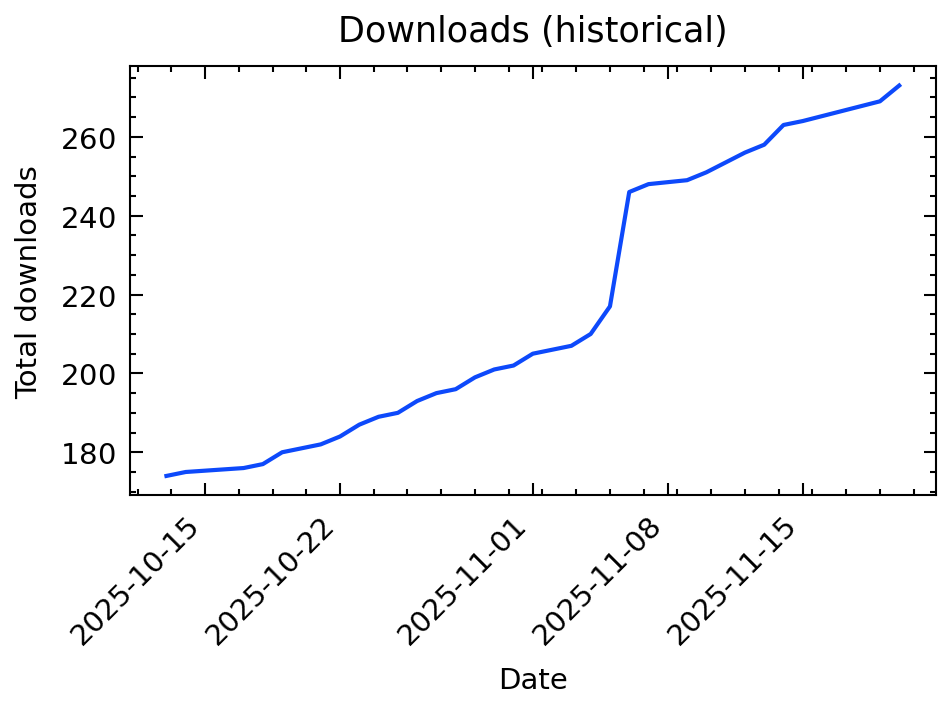
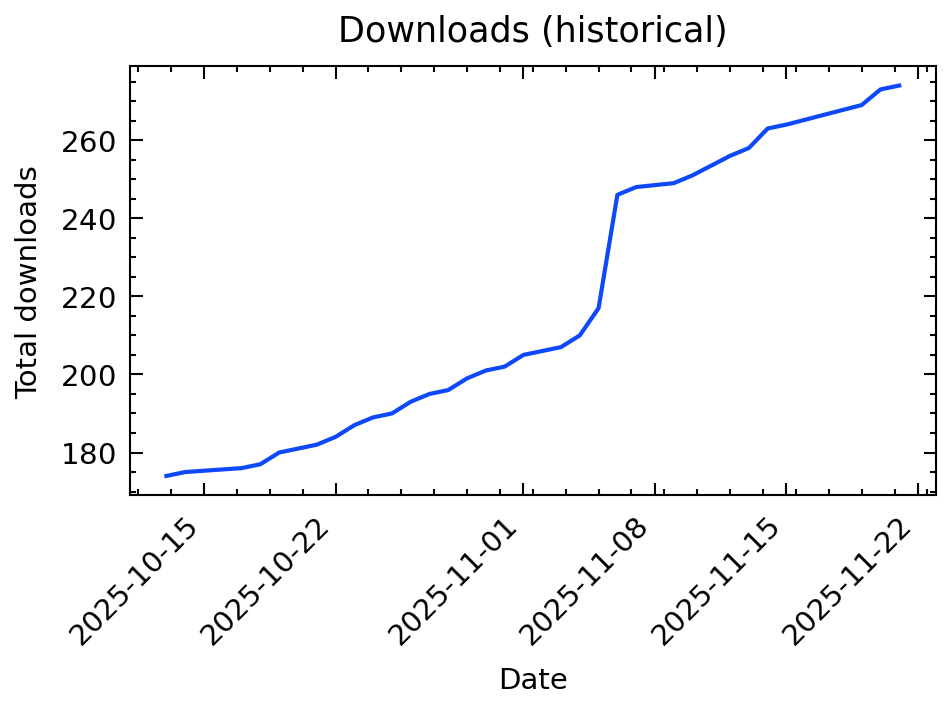
Updated Metrics data

diff --git a/README.md b/README.md
@@ -4,7 +4,7 @@
 SciWIn-Client helps users creating **Computational Workflows** in CWL. Detailed Information about SciWIn-Client can be found in the [GitHub Repository](https://github.com/fairagro/m4.4_sciwin_client). The Metrics shown below have been calculated using the GitHub API. Presentation is done via a CWL Workflow and the scripts in this repository.
 
 ## Downloads by Version
-SciWIn-Client currently has about 273 overall downloads across all versions and operating systems. The lastest version v1.0.0 currently has 68 downloads.
+SciWIn-Client currently has about 274 overall downloads across all versions and operating systems. The lastest version v1.0.0 currently has 69 downloads.
 
 
 ![downloads by version](release.png)
@@ -12,7 +12,7 @@ SciWIn-Client currently has about 273 overall downloads across all versions and 
 
 | Version | Downloads |
 |---------|-----------|
-| v1.0.0 | 68|
+| v1.0.0 | 69|
 | v0.8.0 | 34|
 | v0.7.0 | 21|
 | v0.6.1 | 16|
@@ -27,7 +27,7 @@ SciWIn-Client currently has about 273 overall downloads across all versions and 
 
 
 ## Downloads by Operating System
-SciWIn-Client is used on all major operating systems. There are 158 downloads of the Linux executable, 49 downloads of the Windows executable and 66 downloads of the Mac OS executable.
+SciWIn-Client is used on all major operating systems. There are 159 downloads of the Linux executable, 49 downloads of the Windows executable and 66 downloads of the Mac OS executable.
 
 
 ![downloads by platform](platform.png)
@@ -39,11 +39,11 @@ SciWIn-Client is used on all major operating systems. There are 158 downloads of
 | Linux (ARM) | 34|
 | MacOS (x64) | 28|
 | Windows (x64) | 49|
-| Linux (x64) | 124|
+| Linux (x64) | 125|
 
 
 ## Historical Download Chart
-The historical download chart can be viewed below. It is shown how the 273 overall downloads progressed over time by using the commited data of this repository.
+The historical download chart can be viewed below. It is shown how the 274 overall downloads progressed over time by using the commited data of this repository.
 
 
 ![downloads by date](history.png)
